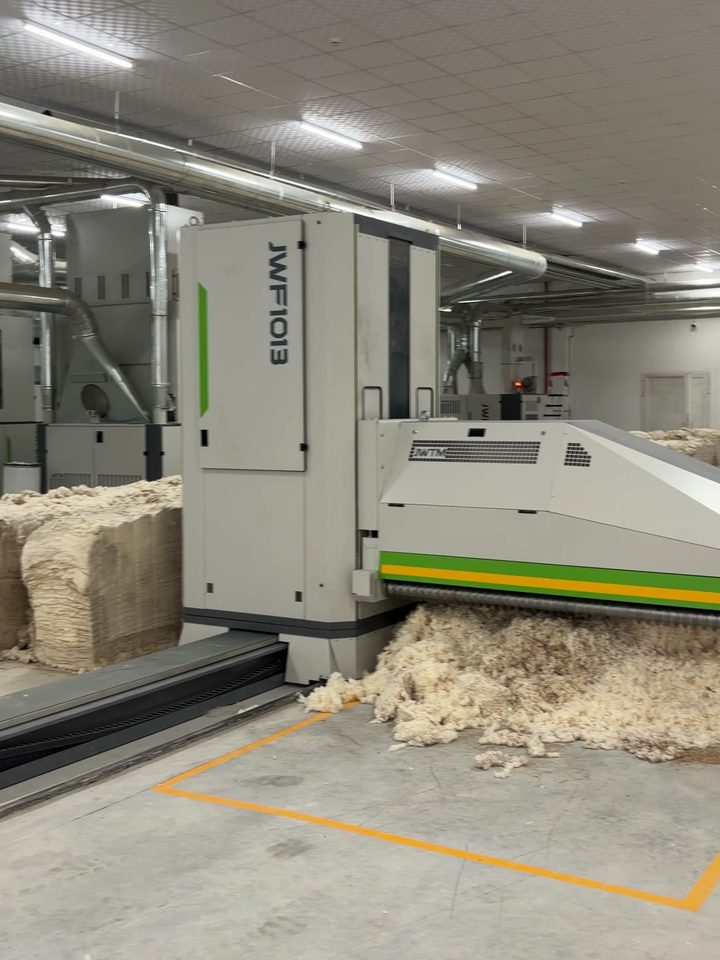
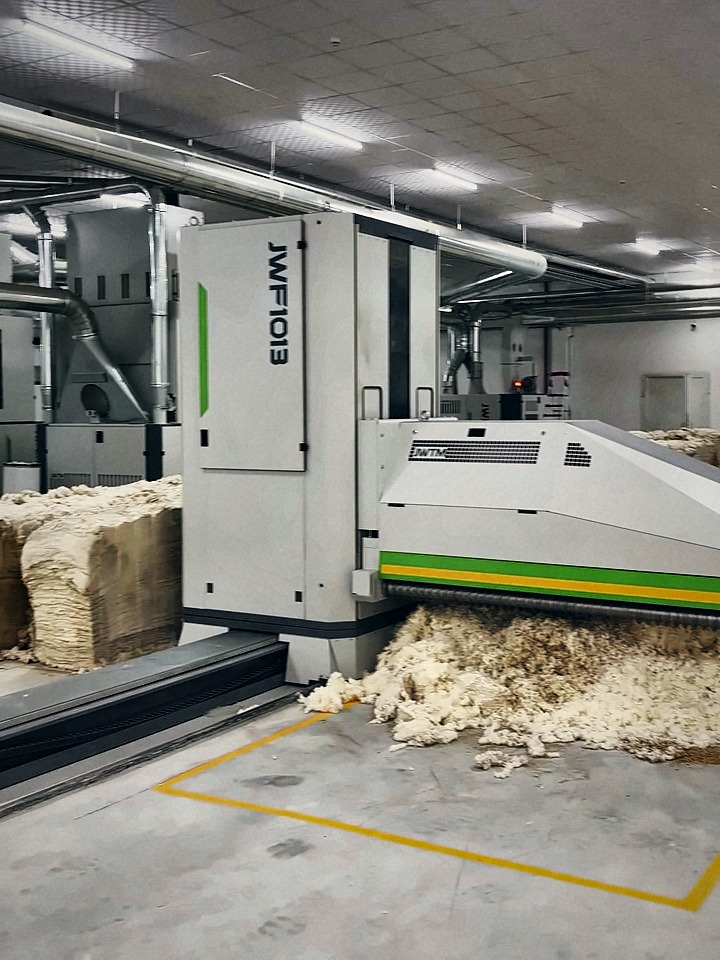
Yarn gallery: same cinematic grade on the remaining photos
Claude-Session: https://claude.ai/code/session_016sCuQnP49GbCoufDb1CL6c

diff --git a/docs/ru/yarn.html b/docs/ru/yarn.html
@@ -101,23 +101,23 @@
           <figcaption>Цех подготовки сырья</figcaption>
         </figure>
         <figure class="photo">
-          <img src="../assets/img/yarn-2.jpg?v=1f694115" alt="Кипоразрыхлитель" loading="lazy">
+          <img src="../assets/img/yarn-2.jpg?v=1ea4f1bd" alt="Кипоразрыхлитель" loading="lazy">
           <figcaption>Кипоразрыхлитель</figcaption>
         </figure>
         <figure class="photo">
-          <img src="../assets/img/yarn-3.jpg?v=889b5f36" alt="Линия разрыхления кип" loading="lazy">
+          <img src="../assets/img/yarn-3.jpg?v=f7f0801b" alt="Линия разрыхления кип" loading="lazy">
           <figcaption>Линия разрыхления кип</figcaption>
         </figure>
         <figure class="photo">
-          <img src="../assets/img/yarn-4.jpg?v=b0253550" alt="Пряжа ALTYN PAMYK" loading="lazy">
+          <img src="../assets/img/yarn-4.jpg?v=b26a6412" alt="Пряжа ALTYN PAMYK" loading="lazy">
           <figcaption>Пряжа ALTYN PAMYK</figcaption>
         </figure>
         <figure class="photo">
-          <img src="../assets/img/yarn-5.jpg?v=aa8656c3" alt="Машины пневмомеханического прядения" loading="lazy">
+          <img src="../assets/img/yarn-5.jpg?v=4a8101ed" alt="Машины пневмомеханического прядения" loading="lazy">
           <figcaption>Машины пневмомеханического прядения</figcaption>
         </figure>
         <figure class="photo">
-          <img src="../assets/img/yarn-6.jpg?v=b31d06ab" alt="Прядильный цех" loading="lazy">
+          <img src="../assets/img/yarn-6.jpg?v=59b405a3" alt="Прядильный цех" loading="lazy">
           <figcaption>Прядильный цех</figcaption>
         </figure>
         </div>

diff --git a/docs/tk/yarn.html b/docs/tk/yarn.html
@@ -101,23 +101,23 @@
           <figcaption>Çig maly taýýarlaýyş sehi</figcaption>
         </figure>
         <figure class="photo">
-          <img src="../assets/img/yarn-2.jpg?v=1f694115" alt="Tuplary ýazdyryjy" loading="lazy">
+          <img src="../assets/img/yarn-2.jpg?v=1ea4f1bd" alt="Tuplary ýazdyryjy" loading="lazy">
           <figcaption>Tuplary ýazdyryjy</figcaption>
         </figure>
         <figure class="photo">
-          <img src="../assets/img/yarn-3.jpg?v=889b5f36" alt="Tuplary ýazdyryş liniýasy" loading="lazy">
+          <img src="../assets/img/yarn-3.jpg?v=f7f0801b" alt="Tuplary ýazdyryş liniýasy" loading="lazy">
           <figcaption>Tuplary ýazdyryş liniýasy</figcaption>
         </figure>
         <figure class="photo">
-          <img src="../assets/img/yarn-4.jpg?v=b0253550" alt="ALTYN PAMYK ýüplügi" loading="lazy">
+          <img src="../assets/img/yarn-4.jpg?v=b26a6412" alt="ALTYN PAMYK ýüplügi" loading="lazy">
           <figcaption>ALTYN PAMYK ýüplügi</figcaption>
         </figure>
         <figure class="photo">
-          <img src="../assets/img/yarn-5.jpg?v=aa8656c3" alt="Pnewmomehaniki egriş maşynlary" loading="lazy">
+          <img src="../assets/img/yarn-5.jpg?v=4a8101ed" alt="Pnewmomehaniki egriş maşynlary" loading="lazy">
           <figcaption>Pnewmomehaniki egriş maşynlary</figcaption>
         </figure>
         <figure class="photo">
-          <img src="../assets/img/yarn-6.jpg?v=b31d06ab" alt="Egriş sehi" loading="lazy">
+          <img src="../assets/img/yarn-6.jpg?v=59b405a3" alt="Egriş sehi" loading="lazy">
           <figcaption>Egriş sehi</figcaption>
         </figure>
         </div>

diff --git a/docs/en/yarn.html b/docs/en/yarn.html
@@ -101,23 +101,23 @@
           <figcaption>Raw material preparation</figcaption>
         </figure>
         <figure class="photo">
-          <img src="../assets/img/yarn-2.jpg?v=1f694115" alt="Bale opener" loading="lazy">
+          <img src="../assets/img/yarn-2.jpg?v=1ea4f1bd" alt="Bale opener" loading="lazy">
           <figcaption>Bale opener</figcaption>
         </figure>
         <figure class="photo">
-          <img src="../assets/img/yarn-3.jpg?v=889b5f36" alt="Bale opening line" loading="lazy">
+          <img src="../assets/img/yarn-3.jpg?v=f7f0801b" alt="Bale opening line" loading="lazy">
           <figcaption>Bale opening line</figcaption>
         </figure>
         <figure class="photo">
-          <img src="../assets/img/yarn-4.jpg?v=b0253550" alt="ALTYN PAMYK yarn" loading="lazy">
+          <img src="../assets/img/yarn-4.jpg?v=b26a6412" alt="ALTYN PAMYK yarn" loading="lazy">
           <figcaption>ALTYN PAMYK yarn</figcaption>
         </figure>
         <figure class="photo">
-          <img src="../assets/img/yarn-5.jpg?v=aa8656c3" alt="Open-end spinning machines" loading="lazy">
+          <img src="../assets/img/yarn-5.jpg?v=4a8101ed" alt="Open-end spinning machines" loading="lazy">
           <figcaption>Open-end spinning machines</figcaption>
         </figure>
         <figure class="photo">
-          <img src="../assets/img/yarn-6.jpg?v=b31d06ab" alt="Spinning hall" loading="lazy">
+          <img src="../assets/img/yarn-6.jpg?v=59b405a3" alt="Spinning hall" loading="lazy">
           <figcaption>Spinning hall</figcaption>
         </figure>
         </div>
